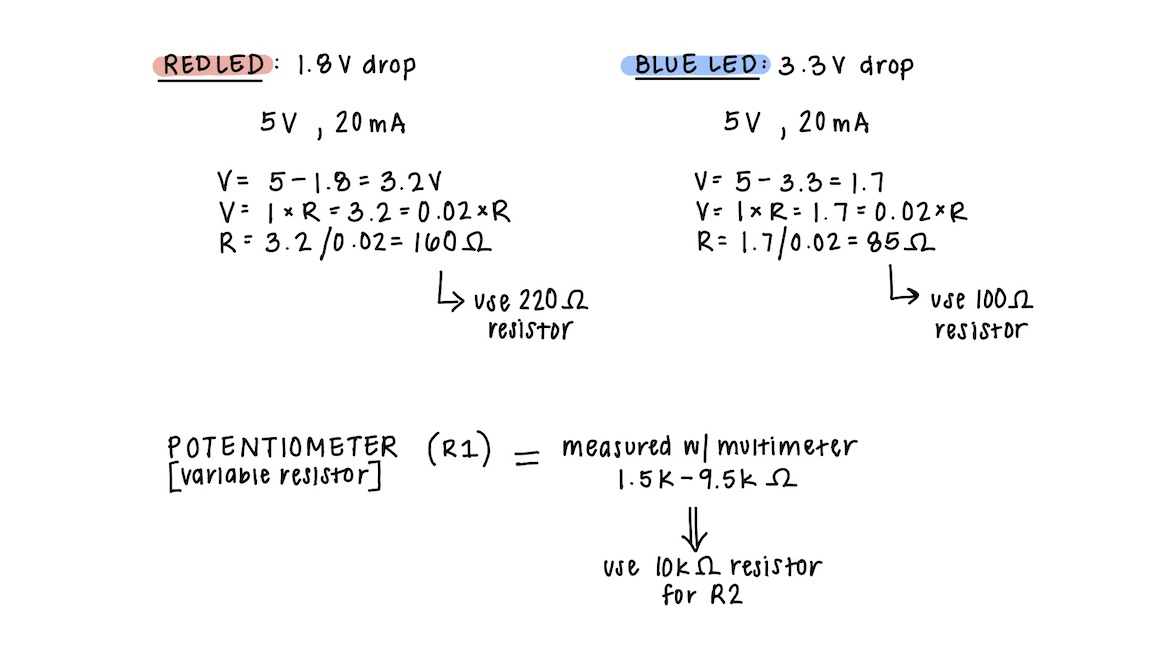
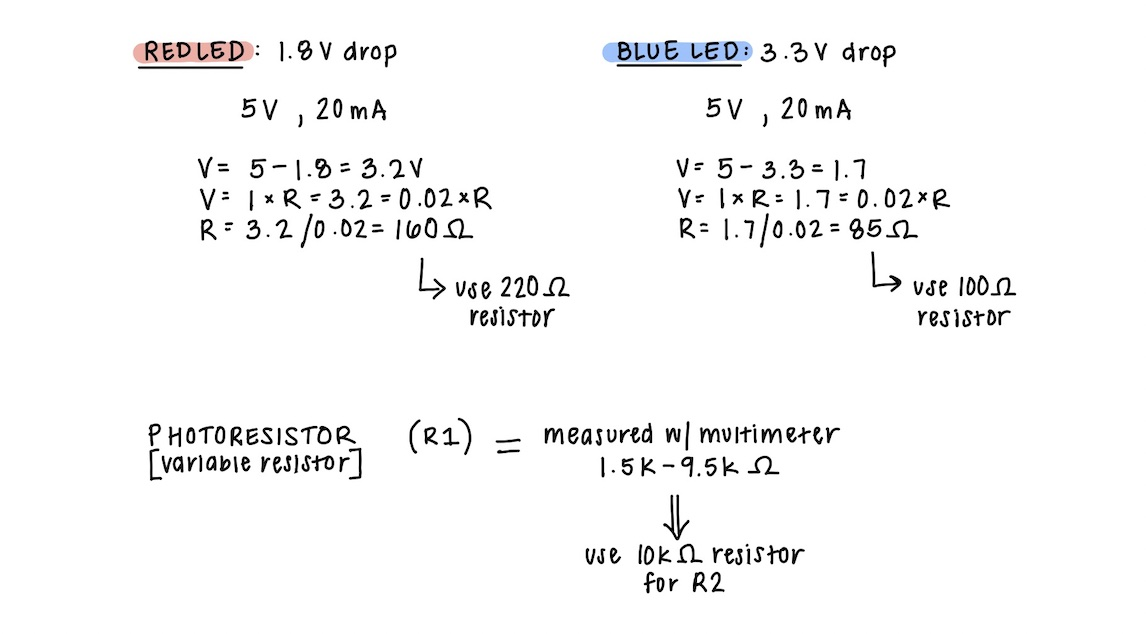
update

diff --git a/a3.html b/a3.html
@@ -21,14 +21,14 @@
     <div class="content">
       <h2>My Schematic</h2>
       <img src="a3-schematic.jpg" width="700" height="350"/>
-      Image of my schematic with labeled components, including pins, resistors, LEDs, potentiometer, and ground.
+      Image of my schematic with labeled components, including pins, resistors, LEDs, photoresistor, and ground.
       <br>
       <br>
 
       <h2>Resistance Calculation</h2>
       <img src="a3-resistance-calculations.jpg" width="800" height="550"/>
       Image of my calculations for the resistances needed for my circuit.
-      I used a 220 ohm resistor for the red LED, a 100 ohm resistor for the blue LED, and a 10k ohm resistor for the potentiometer.
+      I used a 220 ohm resistor for the red LED, a 100 ohm resistor for the blue LED, and a 10k ohm resistor for the photoresistor.
       <br>
       <br>
 
@@ -49,8 +49,8 @@
               by analogRead().
 
               The circuit:
-              - potentiometer
-                center pin of the potentiometer to the analog input 0
+              - photoresistor
+                center pin of the photoresistor to the analog input 0
                 one side pin (either one) to ground
                 the other side pin to +5V
               - LED
@@ -82,7 +82,7 @@
               the new maximum.
 
               The circuit:
-              - analog sensor (potentiometer will do) attached to analog input 0
+              - analog sensor (photoresistor will do) attached to analog input 0
               - LED attached from digital pin 9 to ground through 220 ohm resistor
 
               created 29 Oct 2008
@@ -98,7 +98,7 @@
             */
 
 
-            const int sensorPin = A0;   // analog input pin for the potentiometer
+            const int sensorPin = A0;   // analog input pin for the photoresistor
             const int ledBlue = 10;     // pin for simple blue LED
             int ledRed = 13;            // pin for simple red LED
 
@@ -201,7 +201,7 @@
         <source src="a3-circuit-video.mp4" type="video/mp4">
       Your browser does not support the video tag.
       </video>
-      Video of my circuit in operation, with a potentiometer, red LED, and blue LED.
+      Video of my circuit in operation, with a photoresistor, red LED, and blue LED.
       <br>
       <br>
 
